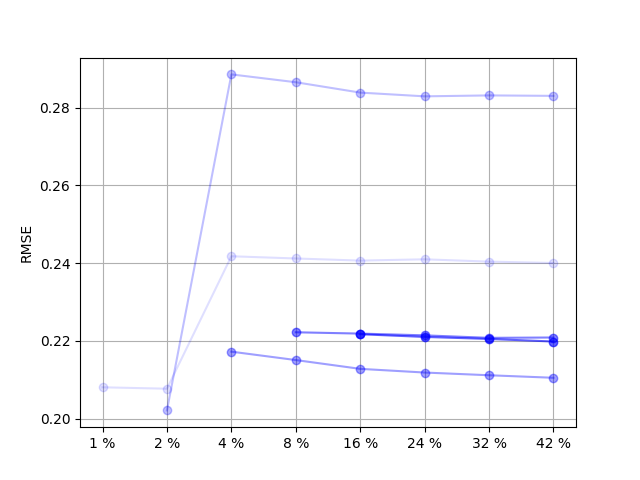
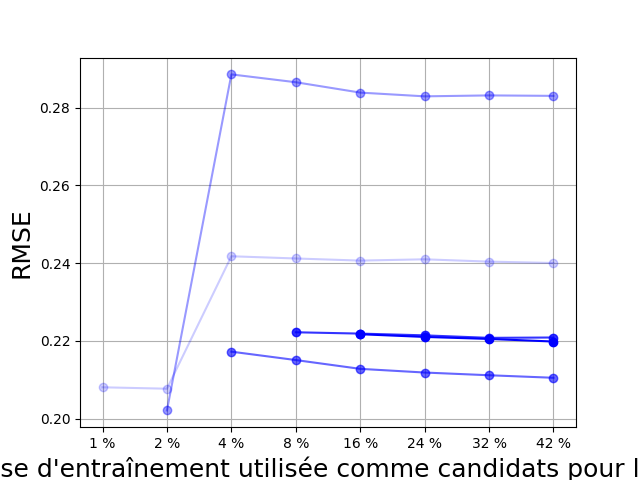
debug

diff --git a/main.py b/main.py
@@ -11,16 +11,16 @@ from deep import *
 
 device = torch.device("cuda" if torch.cuda.is_available() else "cpu")
 
-def main():
+def main(num):
     data_folder = './data'
 
     infos = {
-        'california': (True, 256),
-        'black-friday': (True, 512),
+        #'california': (True, 256),
+        #'black-friday': (True, 512),
 
         'churn': (False, 128),
         'adult': (False, 256),
-        'otto': (False, 512),
+        #'otto': (False, 512),
     }
 
     exp = list(infos.keys())
@@ -87,6 +87,12 @@ def main():
         }
 
         optim = make_optimizer(model, **optim_params)
+        # optim = torch.optim.AdamW(
+        #     model.parameters(), 
+        #     lr= optim_params['lr'], 
+        #     weight_decay=optim_params['weight_decay']
+        # )
+
 
         def get_Xy(part, idx):
             return (
@@ -127,7 +133,7 @@ def main():
             with torch.no_grad():
                 for idx in make_mini_batch(val_size, BATCHSIZE, shuffle=False):
                     x, y = get_Xy('val', idx)
-                    yhat = model(x, X_train, Y_train, training=False, memory=True)
+                    yhat = model(x, X_train, Y_train, training=False, memory=False)
                     if n_classe == 2: y = y.float()
                     log.append(loss_fn(yhat, y).item())
                 best_score, patience = get_patience(best_score,np.mean(log), patience)
@@ -140,21 +146,21 @@ def main():
             model.reset_memory()
             for idx in make_mini_batch(test_size, BATCHSIZE, shuffle=False):
                 x, y = get_Xy('test', idx)
-                yhat = model(x, X_train, Y_train, training=False, memory=True)
+                yhat = model(x, X_train, Y_train, training=False, memory=False)
                 log.append(evaluate(yhat, y, n_classe))
             if is_regression: 
                 print(f'test {data_name} | loss: ', np.mean(log).round(4))
                 # save loss 
                 np.savetxt(f'./log/{data_name}.log', log)
-
             else: 
                 l, acc = np.mean(log,0).round(4)
                 print(f'test {data_name} | acc: {acc} | loss: {l}')
-                # save loss
-                np.savetxt(f'./log/exp1/{data_name}.log', np.array([acc, l]))
+                # save acc, loss
+                np.savetxt(f'./log/exp1/{num}/{data_name}.log', np.array([acc, l]))
             log = []
         del dataset
         del Y
 
 if __name__ == '__main__':
-    main()
+    for num in range(5):
+        main(num)

diff --git a/result.py b/result.py
@@ -1,16 +1,57 @@
 import matplotlib.pyplot as plt 
 import numpy as np
 
-percs = [0.01, 0.02, 0.04, 0.08, 0.16, 0.24, 0.32, 0.42]
 
-for num in range(5):
-    S = [np.loadtxt(f'./log/{num}_{i}.log') for i in range(2)]
-    S = np.array(S)
-    plt.plot(np.arange(num+1, len(percs)+1) , S.mean(0), 'o-', alpha = (1/len(percs))*(num+1), color='b')
+def visualize_exp1():
+    infos = {
+        'california': True,
+        'black-friday': True,
+        'churn': False,
+        'adult': False,
+        'otto': False,
+    }
 
-plt.grid()
-plt.xticks(np.arange(1,len(percs)+1), [f'{int(i*100)} %' for i in percs])
-plt.ylabel('RMSE')
-plt.savefig("./result_img/sample_augmentation.png")
-plt.show()
+    def load(num, data_name, is_regression):
+        arr = np.loadtxt(f'./log/exp1/{num}/{data_name}.log')
+        if is_regression:
+            return np.mean(arr)
+        else:
+            return arr
+    print('=================================')
+    print('===== RESULT : EXPERIMENT 1 ========')
+    print('=================================')
+    for data_name, is_regression in infos.items():
+        log = [load(num, data_name, is_regression) for num in range(5)]
+        if is_regression:
+            print(f'Regression | {data_name} \nloss: {np.sqrt(np.mean(log))}')
+        else:
+            acc, l = np.max(log,0)
+            print(f'Classif | {data_name} \nloss: {l}\naccuracy: {acc}')
+        print("==============================")
+            
+def visualize_exp2():
+    print('=================================')
+    print('===== RESULT : EXPERIMENT 2 ========')
+    print('=================================')
+
+
+    percs = [0.01, 0.02, 0.04, 0.08, 0.16, 0.24, 0.32, 0.42]
+
+    max_num = 5
+    for num in range(max_num):
+        S = [np.loadtxt(f'./log/exp2/{num}_{i}.log') for i in range(2)]
+        S = np.array(S)
+        plt.plot(np.arange(num+1, len(percs)+1) , S.mean(0), 'o-', alpha = (1/max_num)*(num+1), color='b')
+
+    plt.grid()
+    plt.xticks(np.arange(1,len(percs)+1), [f'{int(i*100)} %' for i in percs])
+    plt.ylabel('RMSE', fontsize=18)
+    plt.xlabel('%'+" de la base d'entraînement utilisée comme candidats pour la prédiction", fontsize=18)
+    plt.savefig("./result_img/sample_augmentation.png")
+    plt.show()
+
+
+if __name__ == '__main__':
+    visualize_exp1()
+    #visualize_exp2()
 

diff --git a/deep.py b/deep.py
@@ -15,7 +15,7 @@ def evaluate(yhat, y, n_classe):
     elif n_classe == 2: 
         return (
             F.binary_cross_entropy(F.sigmoid(yhat), y.float()).item(),
-            torch.where((yhat>=0.5).unsqueeze(-1) == y, 1., 0.).mean().item()
+            torch.where((F.sigmoid(yhat)>=0.5) == y, 1., 0.).mean().item()
         )
     else:
         return (

diff --git a/exp2.py b/exp2.py
@@ -175,4 +175,4 @@ def main(train_perc_i, number=0):
 
 
 if __name__ == '__main__':
-    main(3, 3)
+    main(4, 4)

diff --git a/README.md b/README.md
@@ -1,0 +1,3 @@
+
+
+result.py : affiche les résultats 
